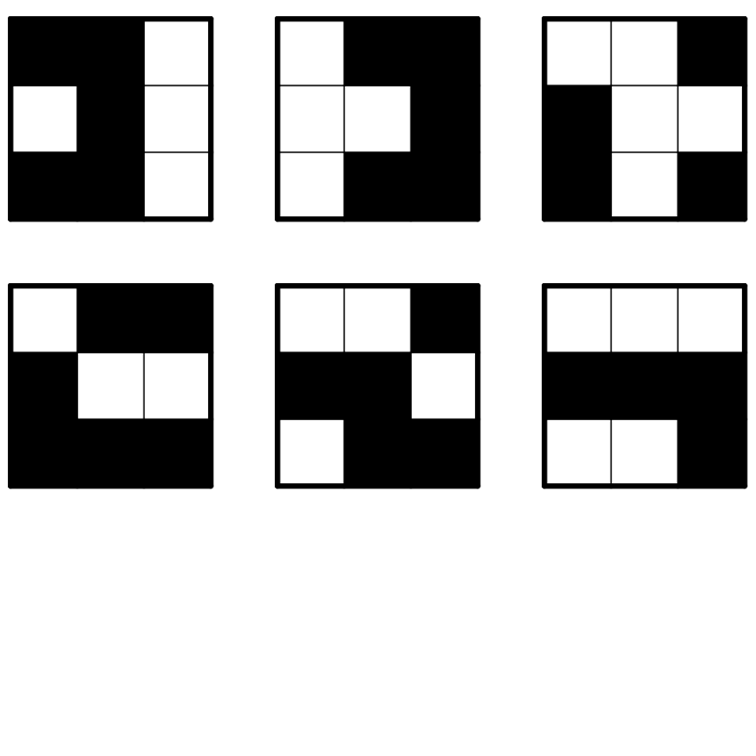
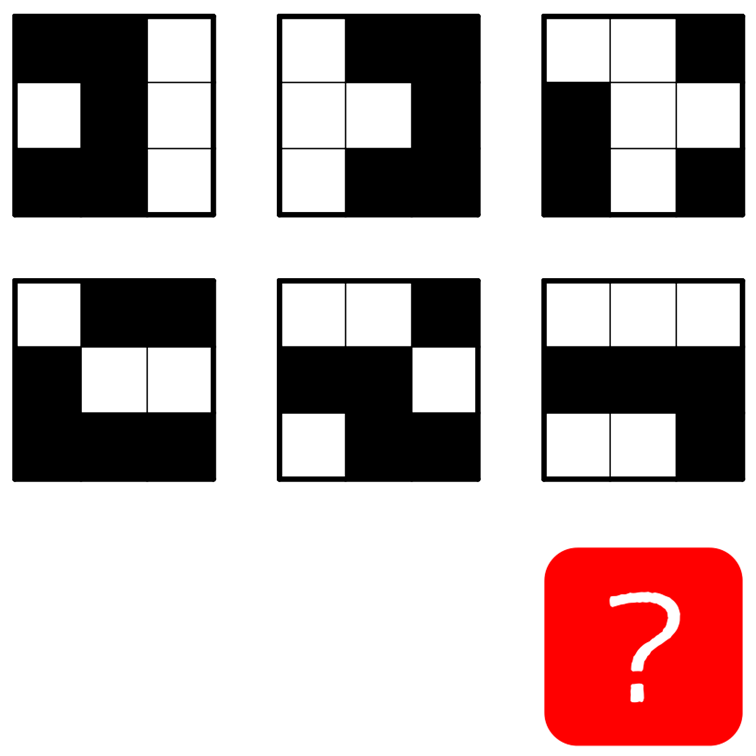
judge

diff --git a/NaguruzoMondo/CASE17/main.js b/NaguruzoMondo/CASE17/main.js
@@ -57,20 +57,18 @@ function debugGridState() {
 function checkCompletion() {
     if (!targetGridData) return false;
     
-    // 現在のクリック状況をバイナリ配列に変換
-    let currentPattern = [];
-    for (let i = 0; i < grid * grid; i++) {
-        currentPattern.push(clicked[i]);
-    }
-    
-    // 目標パターンと比較
+    // 目標パターンと比較し、全て同じか全て違うならtrue
+    all_true = true;
+    all_false = true;
     for (let i = 0; i < targetGridData.length; i++) {
-        if (currentPattern[i] !== targetGridData[i]) {
-            return false;
+        if (clicked[i] == targetGridData[i]) {
+            all_false = false; // 目標パターンと同じならfalse
+        }else{
+            all_true = false; // 目標パターンと違うならtrue
         }
     }
     
-    return true;
+    return all_true || all_false; // 全て同じか全て違うならtrue
 }
 function loadGridFromURL() {
     const urlParams = new URLSearchParams(window.location.search);
@@ -179,8 +177,8 @@ function addGridImageToArray(binaryArray) {
 // グリッド画像を描画する共通関数
 function drawGridImages() {
     if (images.length > imageNum) {
-        let displaySize = 120;
-        let spacing = 20;
+        let displaySize = cellWidth * 1.35;
+        let spacing = 10;
         
         // URLから読み込んだ場合（元の画像 + 変換後の画像）
         if (images.length >= imageNum + 2) {
@@ -201,13 +199,7 @@ function drawGridImages() {
                 let transformedX = (width - displaySize) / 2;
                 let transformedY = height - displaySize - spacing;
                 image(transformedImg, transformedX, transformedY, displaySize, displaySize);
-                
-                // ラベルを追加
-                fill(0);
-                textAlign(CENTER);
-                textSize(12);
-                text("元の画像", originalX + displaySize/2, originalY - 5);
-                text("変換後", transformedX + displaySize/2, transformedY - 5);
+
             }
         }
     }
@@ -233,6 +225,12 @@ function setup() {
 
     cellWidth = width / grid;
     cellHeight = height / grid;
+
+    // // クイズコンテナ全体を非表示にする
+    // const quizContainer = document.querySelector('.quiz-container');
+    // if (quizContainer) {
+    //     quizContainer.style.display = 'none';
+    // }
 
     // URLパラメータからグリッドデータを読み込み
     let loadedFromURL = loadGridFromURL();
@@ -389,6 +387,8 @@ function mouseReleased() {
                 showidx[index] = index + 1; // 1-indexに修正
                 revealed--;
             }
+        }else{
+            return;
         }
     }
     
@@ -424,11 +424,6 @@ if (submitButton) {
 }
 
 function showResultButtons(tweetMess) {
-    // クイズコンテナ全体を非表示にする
-    const quizContainer = document.querySelector('.quiz-container');
-    if (quizContainer) {
-        quizContainer.style.display = 'none';
-    }
 
     // すでにボタンが表示されていれば何もしない
     if (document.getElementById('result-buttons')) return;
@@ -501,6 +496,13 @@ function drawArea() {
         }
     }
     blendMode(BLEND);
+
+    if (cleared == 0 & checkCompletion()) {
+        alert('正解！');
+        cleared = 1;
+        tweetMess = make_tweet(0);
+        showResultButtons(tweetMess);
+    }
 }
 
 function allOpen() {

diff --git a/NaguruzoMondo/CASE17/index.html b/NaguruzoMondo/CASE17/index.html
@@ -17,7 +17,7 @@
         <div id="canvas-container"></div>
         <div class="quiz-container">
             <div id="remainingAttempts" class="quiz-info">残り解答回数: 3</div>
-            <input type="text" id="answerInput" class="quiz-input" placeholder="解答をひらがなで入力">
+            <input type="text" id="answerInput" class="quiz-input" placeholder="">
             <button id="submitAnswer" class="quiz-button">決定</button>
         </div>
     </div>
